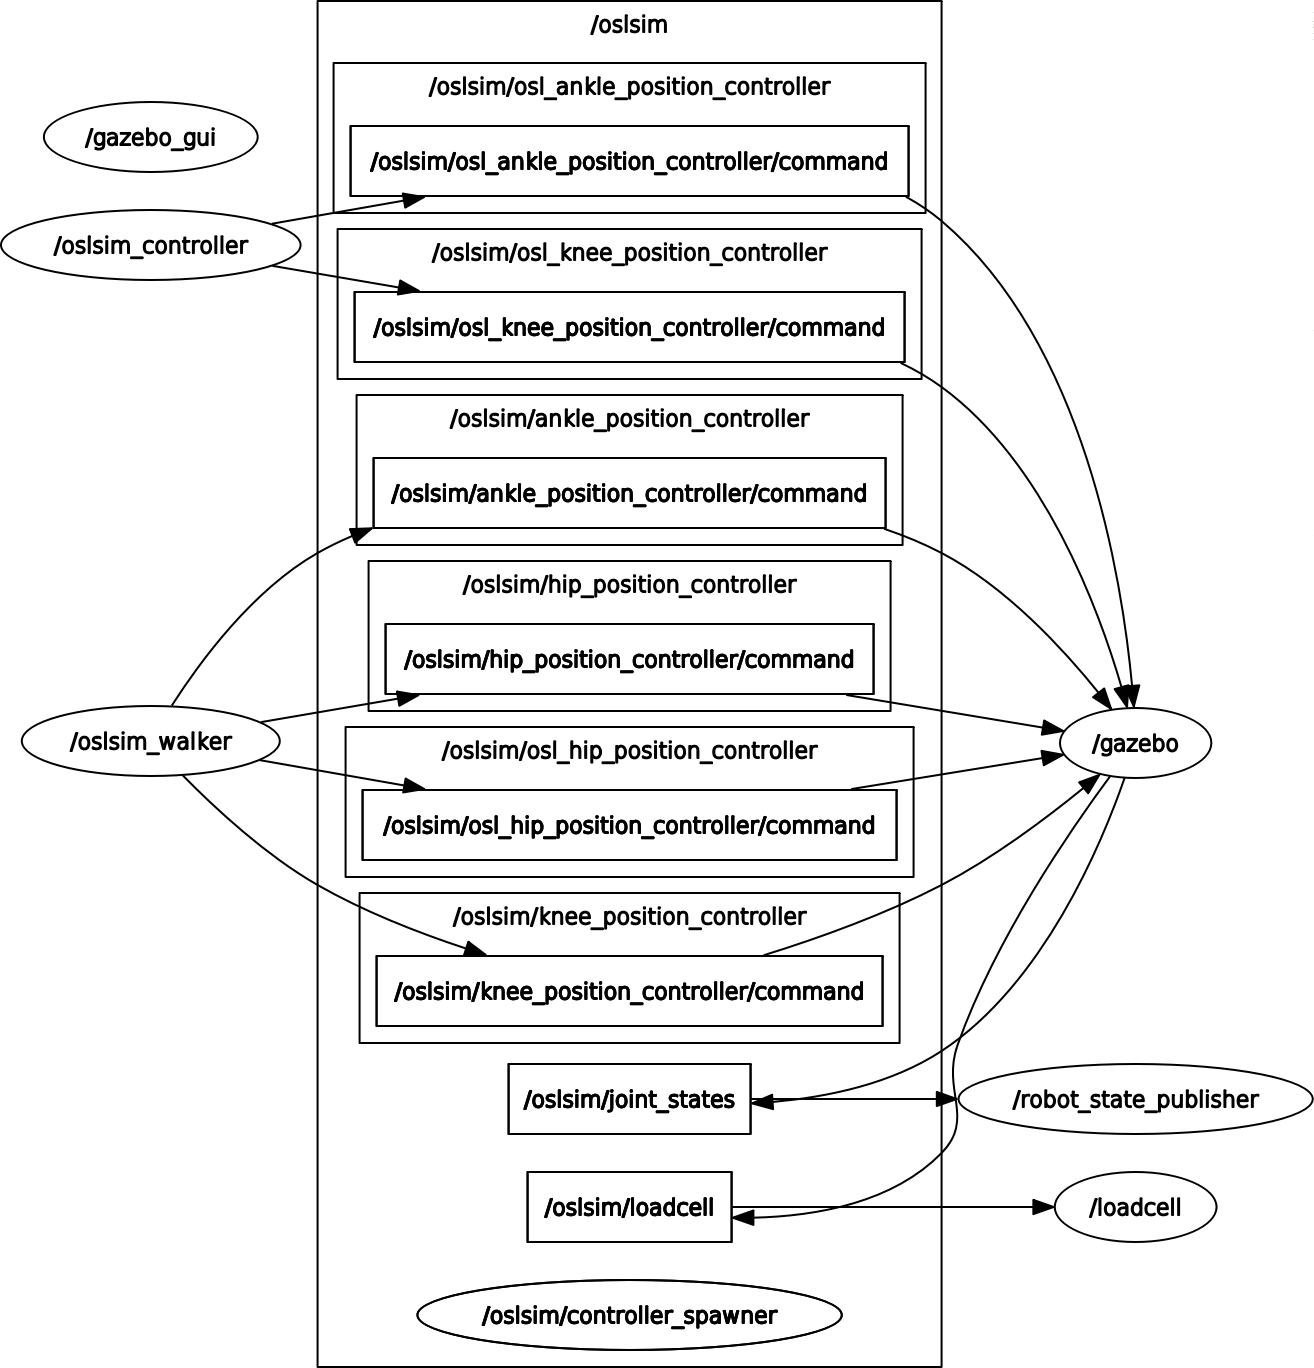
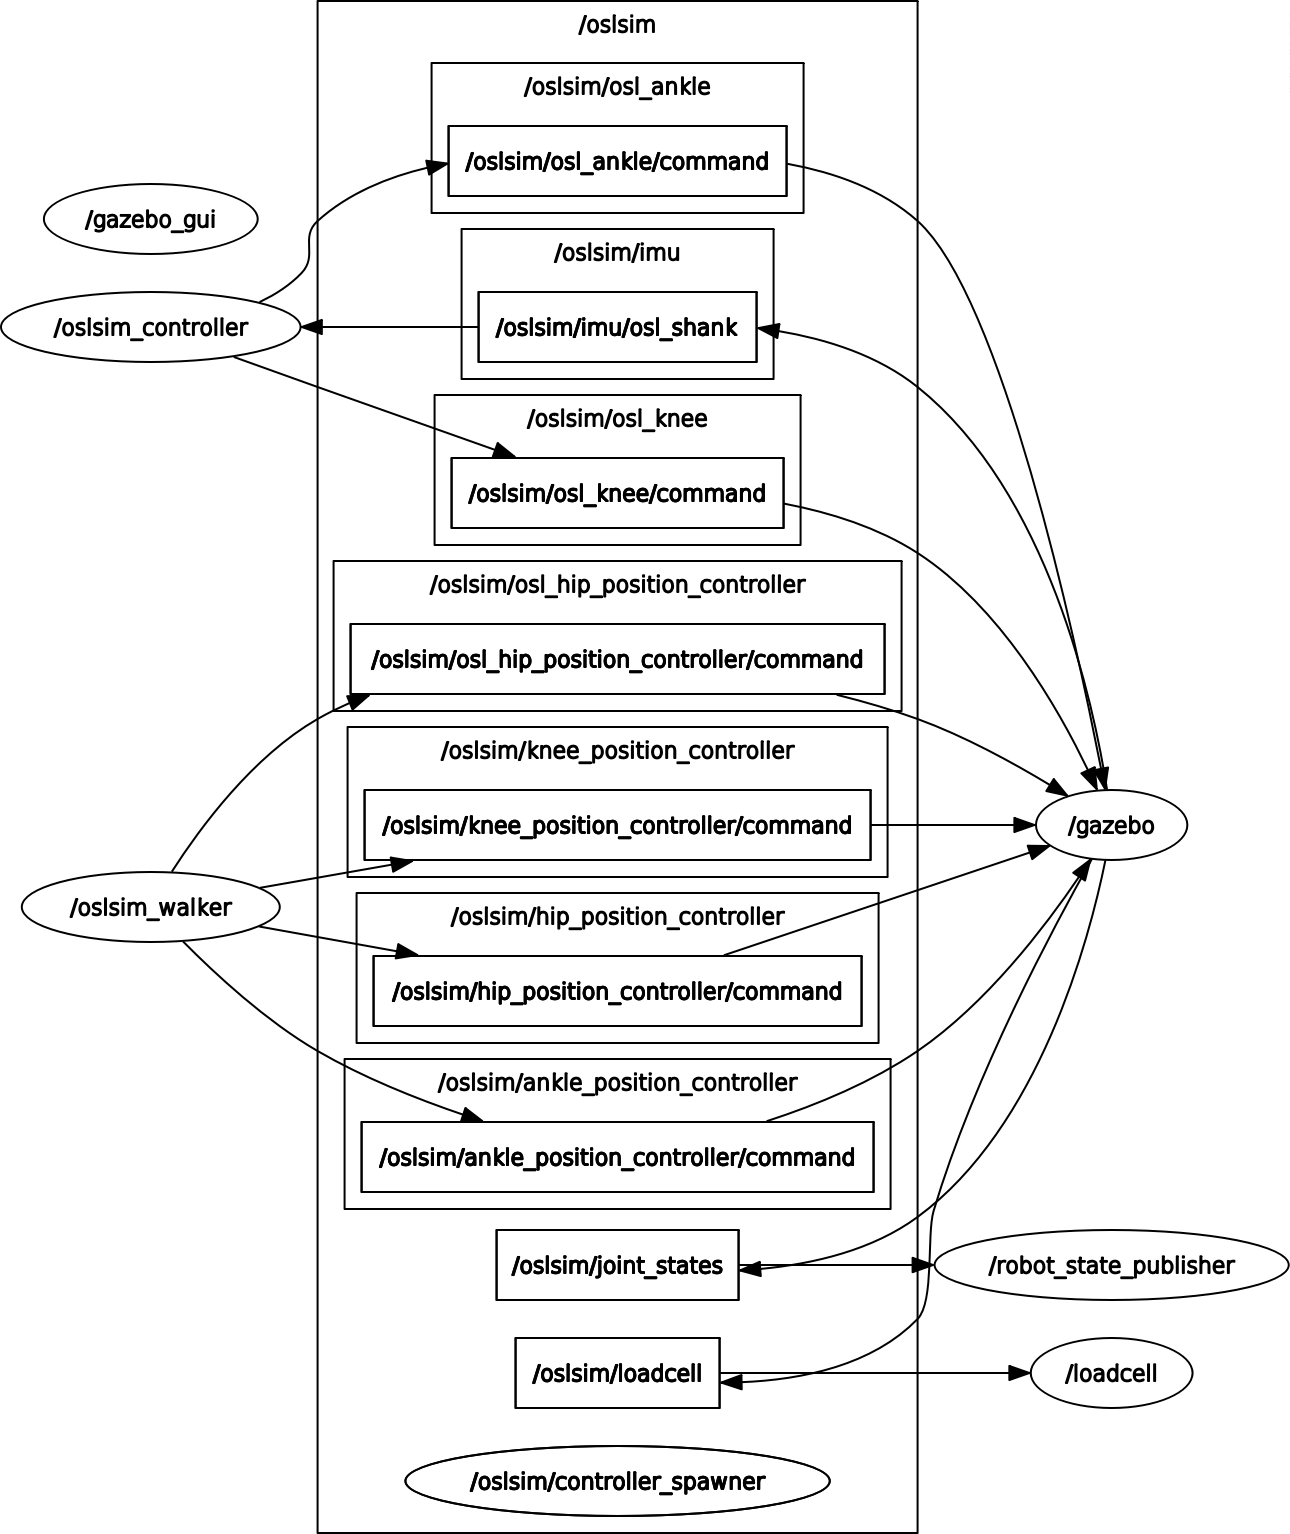
Updated documentation.

diff --git a/README.md b/README.md
@@ -35,7 +35,7 @@ $ source devel/setup.bash
 The Open-source Leg (OSL) model depicted in this package comprises
 
 * 2 Inertial Measurement Units (IMU)
-* a Odometry sensor
+* 2 Rotary encoders
 * a Load cell
 
 ## Topics
